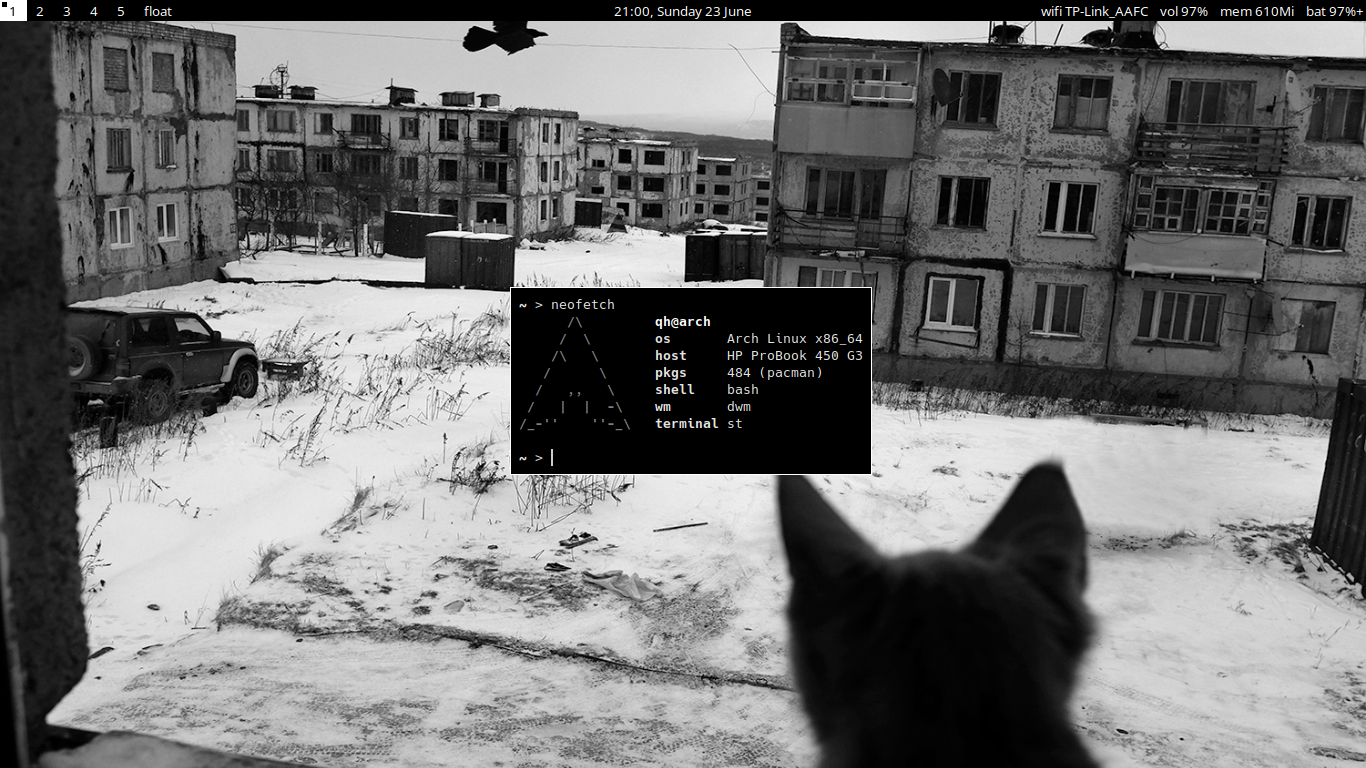
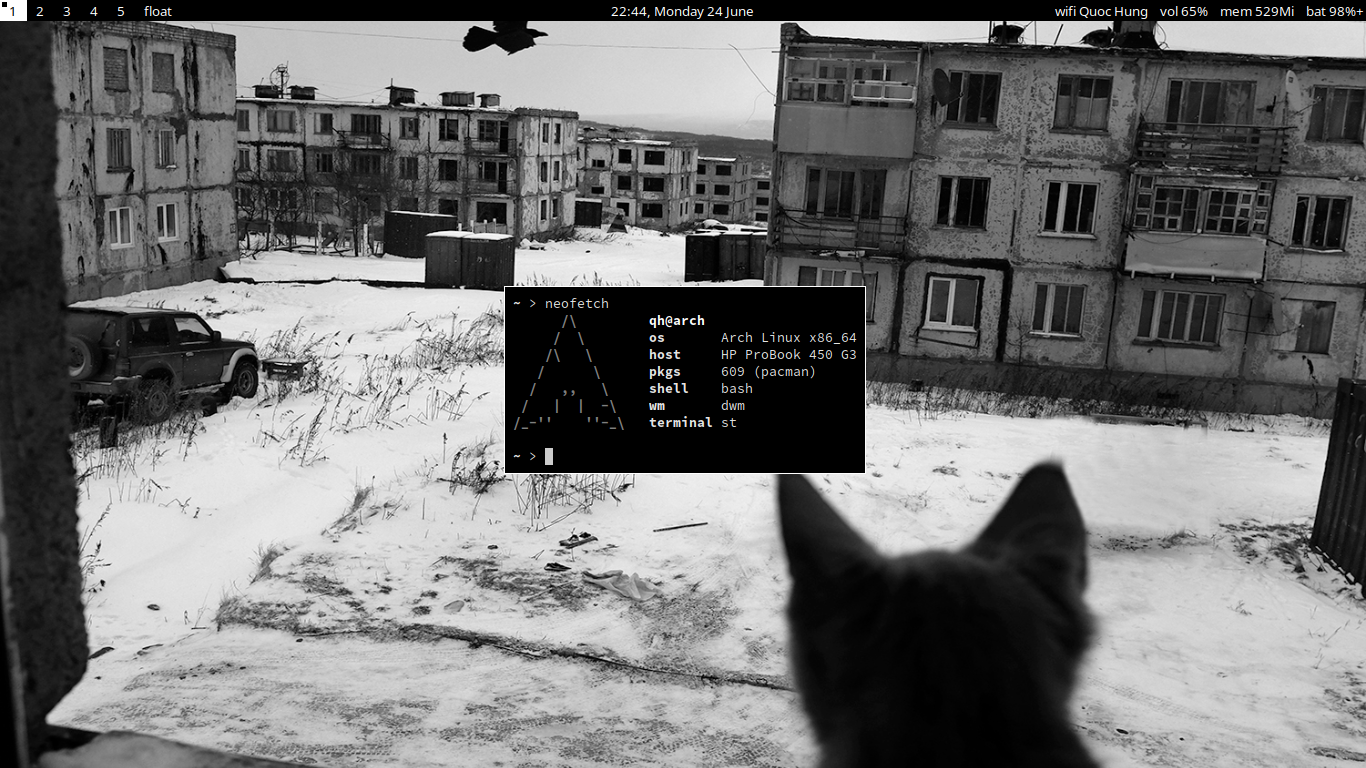
update

Changed region(s): [[0.369, 0.375, 0.6457, 0.625], [0.7687, 0.0, 0.8917, 0.0312], [0.4305, 0.0, 0.5534, 0.0312]]

diff --git a/.config/suckless/dwm/config.def.h b/.config/suckless/dwm/config.def.h
@@ -2,7 +2,7 @@
 
 /* appearance */
 static const unsigned int borderpx  = 1;        /* border pixel of windows */
-static const unsigned int gappx     = 2;        /* gaps between windows */
+static const unsigned int gappx     = 1;        /* gaps between windows */
 static const unsigned int snap      = 32;       /* snap pixel */
 static const int swallowfloating    = 0;        /* 1 means swallow floating windows by default */
 static const int showbar            = 1;        /* 0 means no bar */

diff --git a/.config/suckless/dwm/config.h b/.config/suckless/dwm/config.h
@@ -2,7 +2,7 @@
 
 /* appearance */
 static const unsigned int borderpx  = 1;        /* border pixel of windows */
-static const unsigned int gappx     = 2;        /* gaps between windows */
+static const unsigned int gappx     = 1;        /* gaps between windows */
 static const unsigned int snap      = 32;       /* snap pixel */
 static const int swallowfloating    = 0;        /* 1 means swallow floating windows by default */
 static const int showbar            = 1;        /* 0 means no bar */

diff --git a/.config/suckless/st/config.def.h b/.config/suckless/st/config.def.h
@@ -65,7 +65,7 @@ static unsigned int blinktimeout = 0;
 /*
  * thickness of underline and bar cursors
  */
-static unsigned int cursorthickness = 2;
+static unsigned int cursorthickness = 1;
 
 /*
  * bell volume. It must be a value between -100 and 100. Use 0 for disabling
@@ -141,7 +141,7 @@ static unsigned int defaultrcs = 257;
  * 6: Bar ("|")
  * 7: Snowman ("☃")
  */
-static unsigned int cursorshape = 6;
+static unsigned int cursorshape = 2;
 
 /*
  * Default columns and rows numbers

diff --git a/.config/suckless/st/config.h b/.config/suckless/st/config.h
@@ -65,7 +65,7 @@ static unsigned int blinktimeout = 0;
 /*
  * thickness of underline and bar cursors
  */
-static unsigned int cursorthickness = 2;
+static unsigned int cursorthickness = 1;
 
 /*
  * bell volume. It must be a value between -100 and 100. Use 0 for disabling
@@ -141,7 +141,7 @@ static unsigned int defaultrcs = 257;
  * 6: Bar ("|")
  * 7: Snowman ("☃")
  */
-static unsigned int cursorshape = 6;
+static unsigned int cursorshape = 2;
 
 /*
  * Default columns and rows numbers
